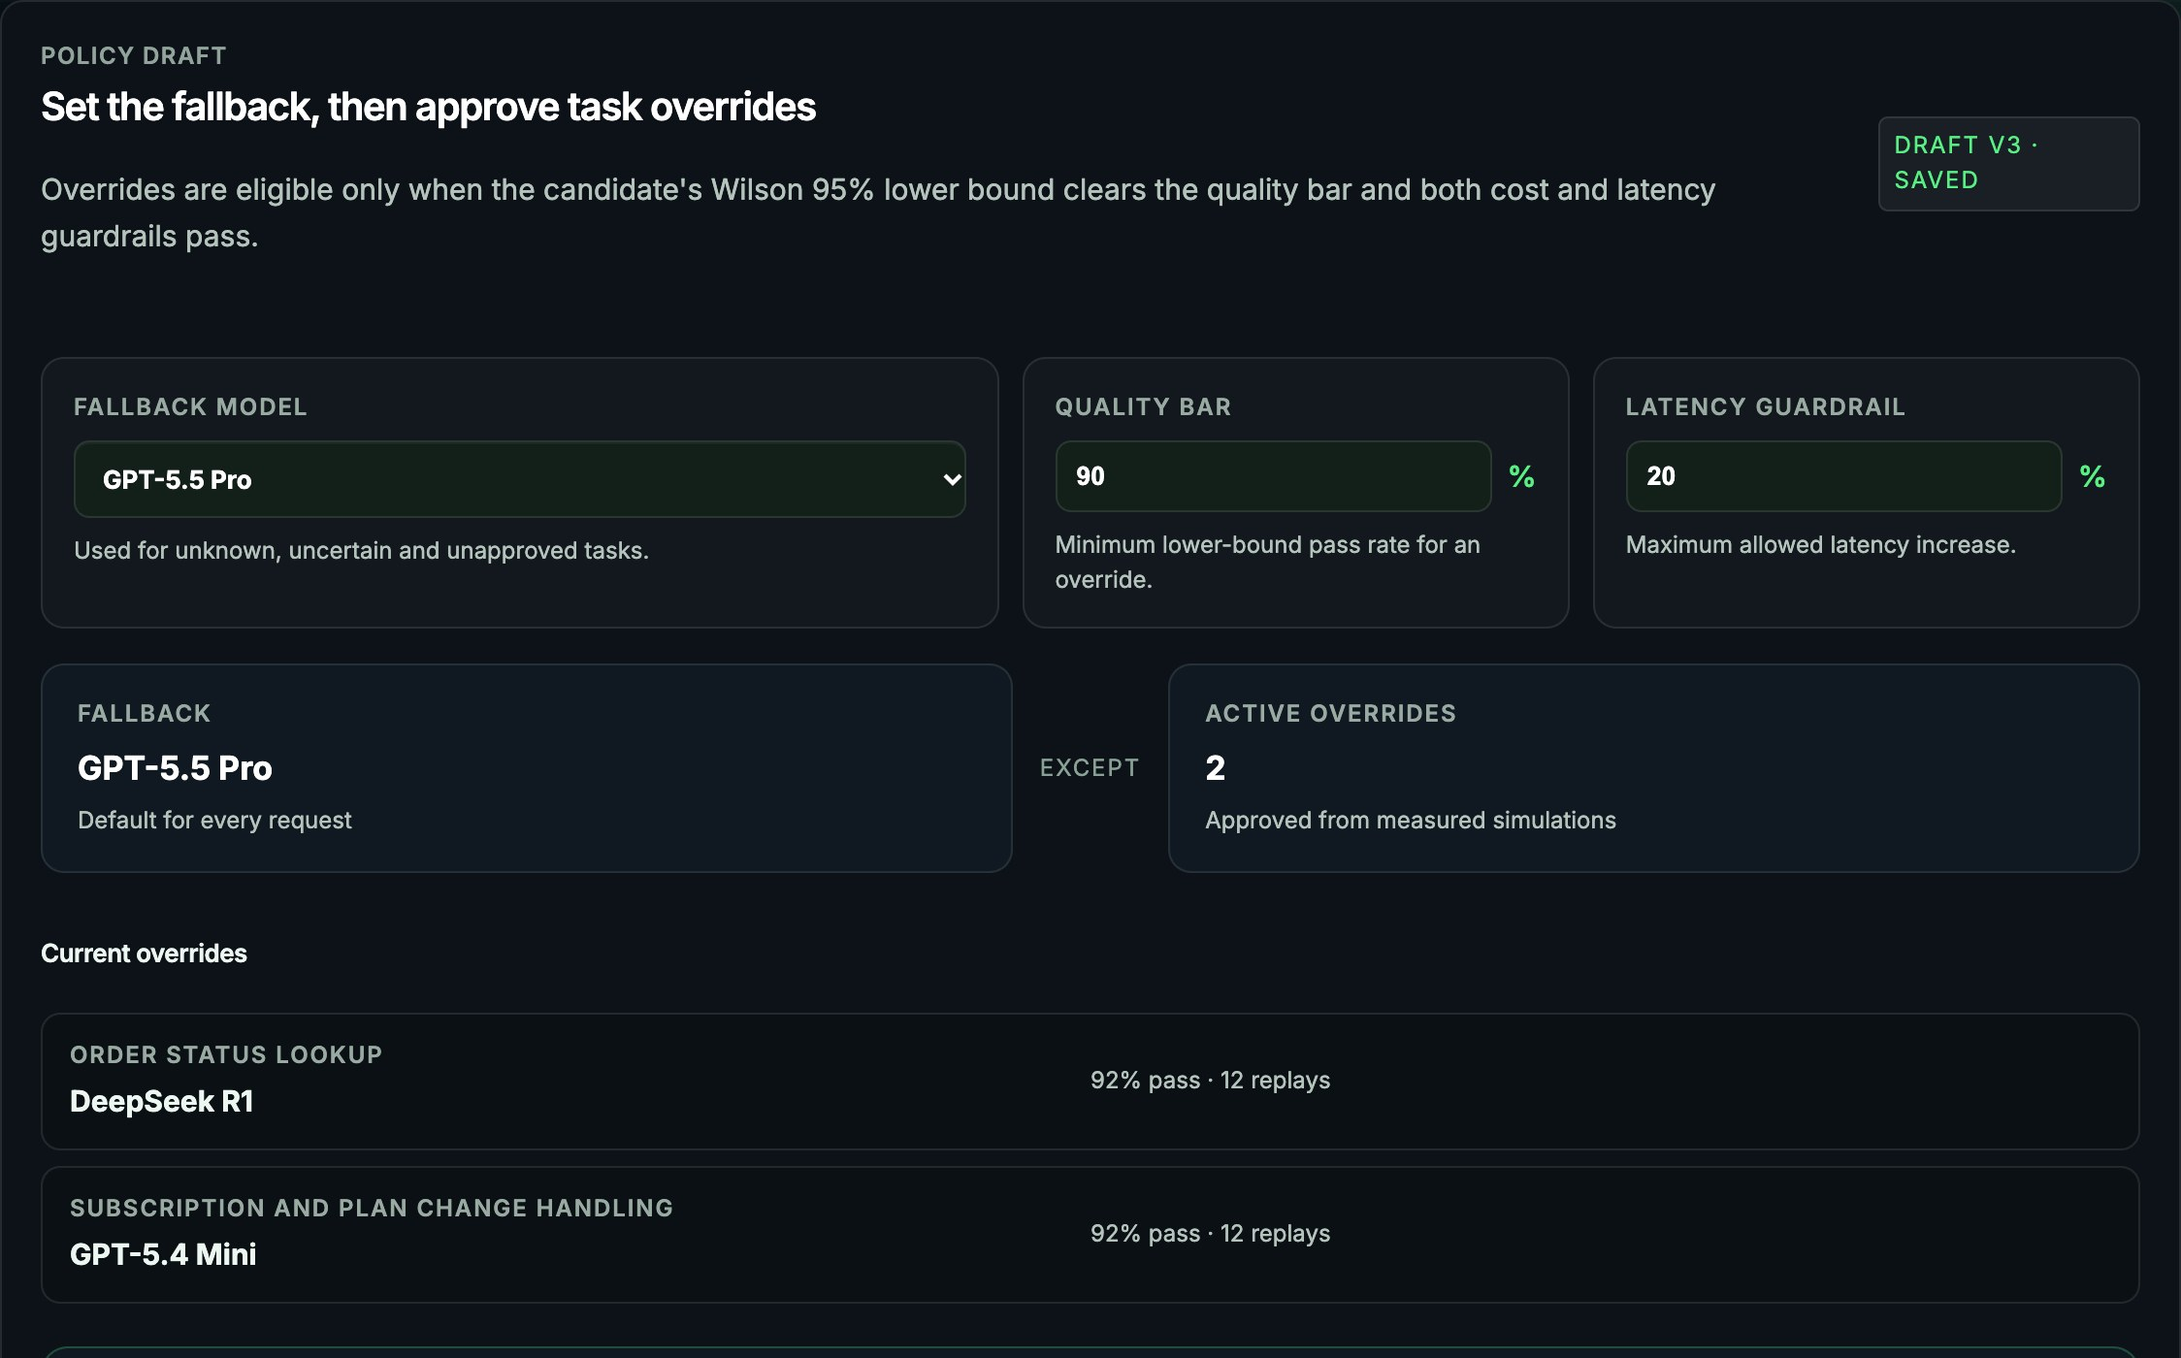
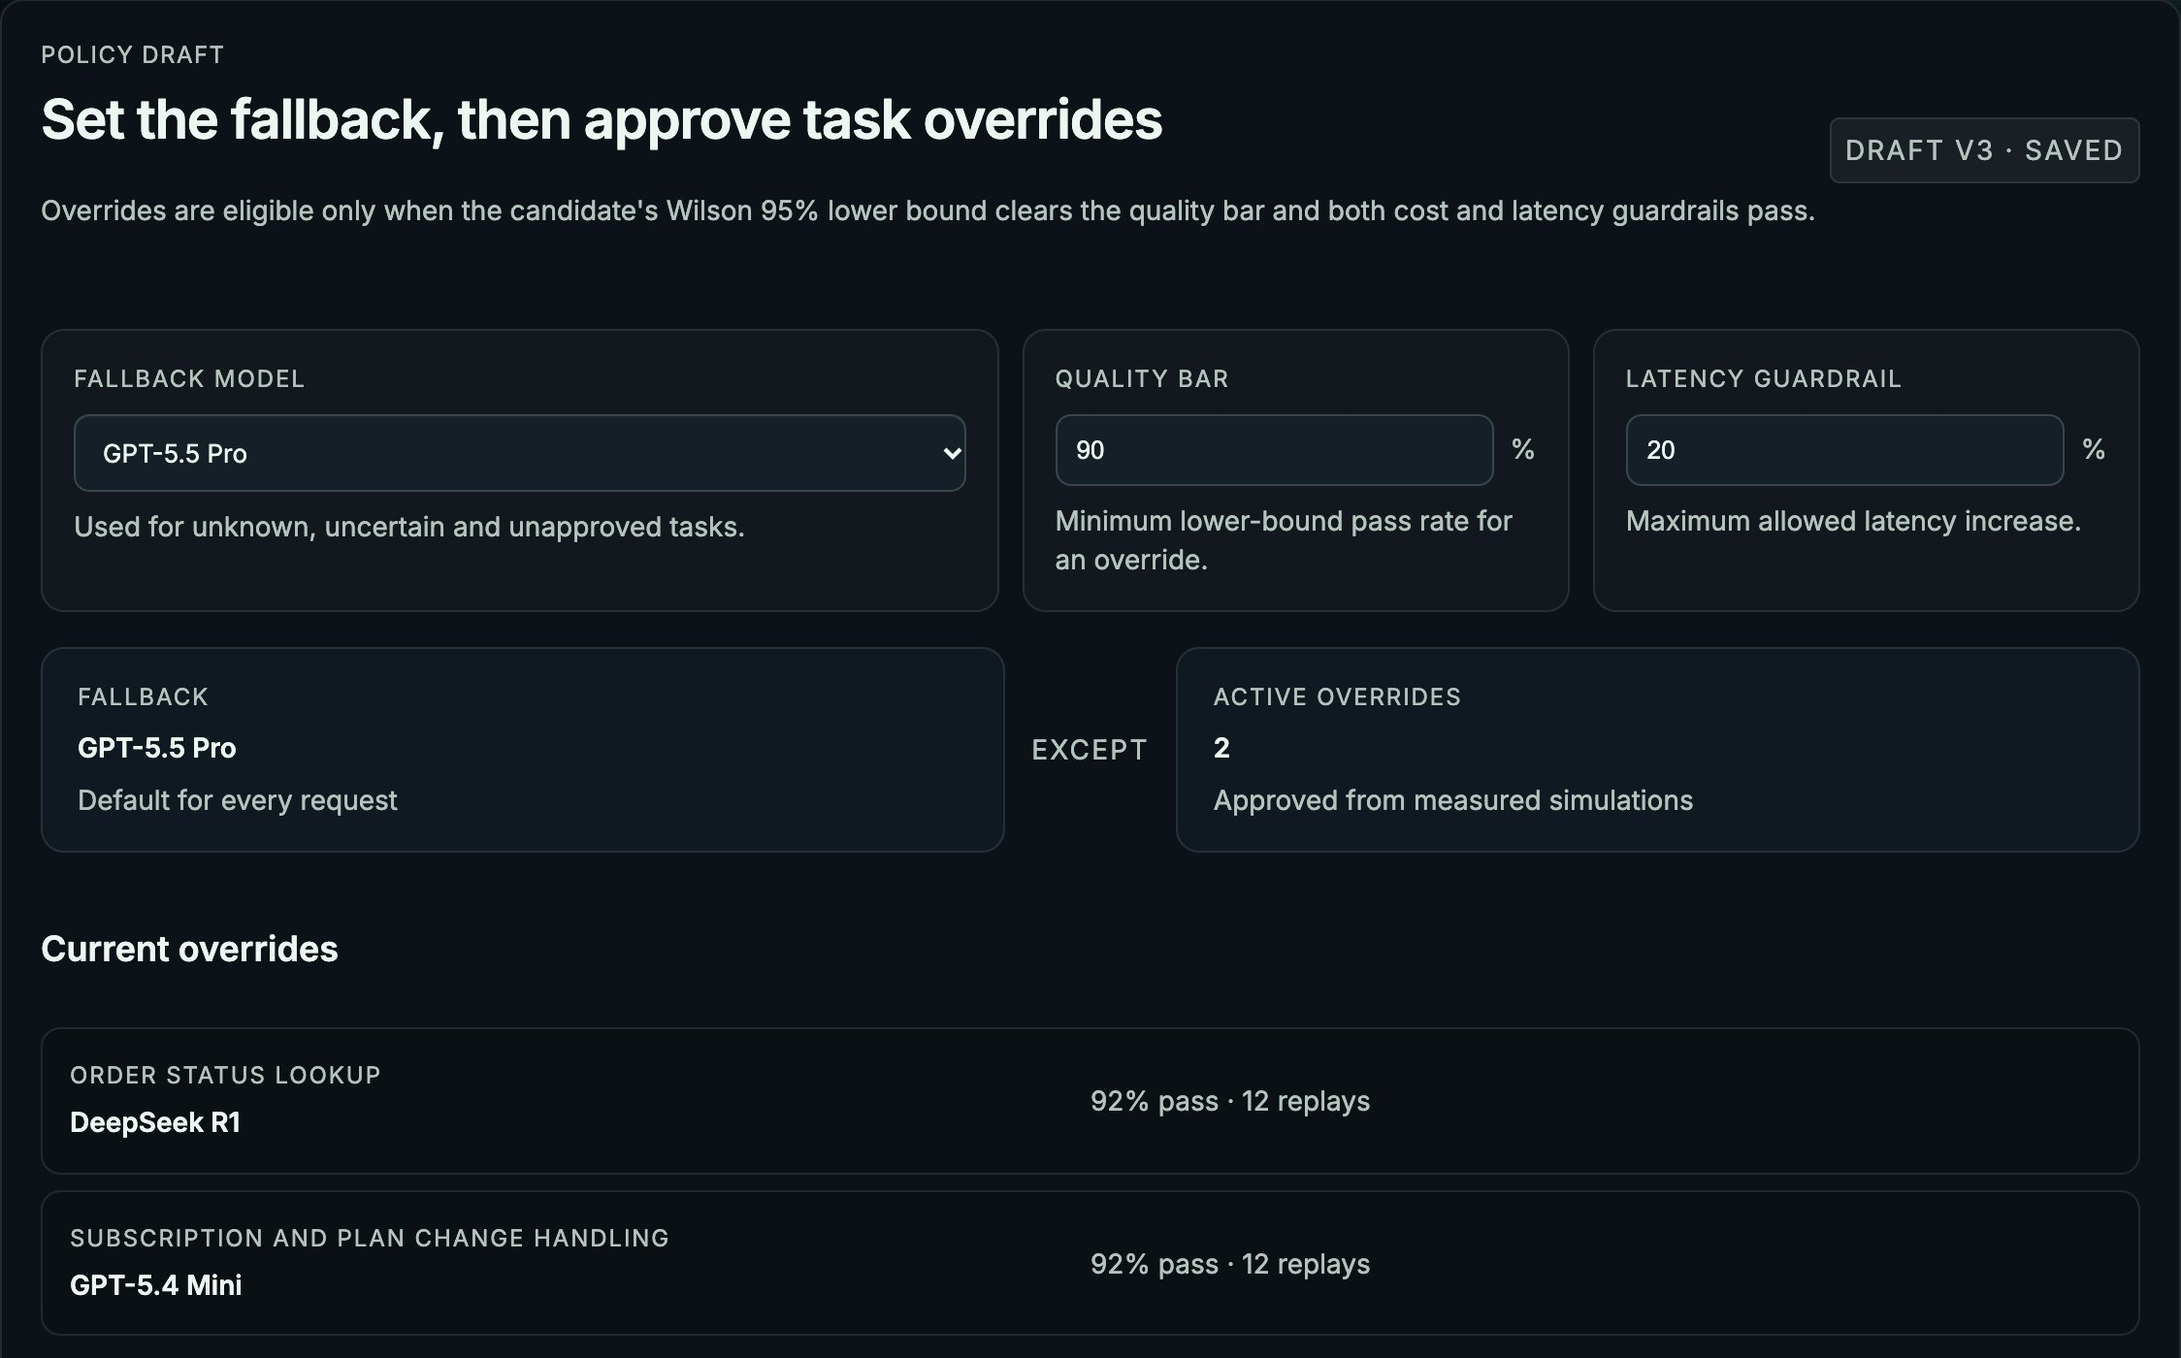
chore: complete design verification

diff --git a/scripts/capture-before.ts b/scripts/capture-before.ts
@@ -1,0 +1,64 @@
+import { chromium, type Page } from "@playwright/test";
+import { mkdir } from "node:fs/promises";
+import path from "node:path";
+
+const baseUrl = process.env.ROUTELAB_BEFORE_URL ?? "http://127.0.0.1:5176";
+const outputDir = path.resolve("audit/screenshots");
+const chrome = process.env.CHROME_PATH ?? "/Applications/Google Chrome.app/Contents/MacOS/Google Chrome";
+const routes = [
+  ["overview", "Overview"],
+  ["traces", "Workloads", "Trace Library"],
+  ["tasks", "Workloads", "Task Signatures"],
+  ["library", "Quality", "Eval Library"],
+  ["calibration", "Quality", "Human Calibration"],
+  ["review-queue", "Quality", "Review Queue"],
+  ["simulate", "Routing Simulations"],
+  ["draft", "Routing Simulations"],
+  ["decisions", "Routes", "Routing Decisions"],
+  ["versions", "Routes", "Routing Decisions"],
+  ["settings", "Settings"],
+  ["benchmarking", "Benchmarking"],
+  ["fine-tuning", "Routes", "Fine-Tuning Opportunities"],
+  ["script-automation", "Routes", "Routing Decisions"],
+] as const;
+
+async function unlock(page: Page) {
+  await page.goto(baseUrl, { waitUntil: "networkidle" });
+  await page.getByRole("button", { name: "Get started" }).first().click();
+  await page.locator('input[type="password"]').fill("Mochinder");
+  await page.getByRole("button", { name: "Unlock RouteLab" }).click();
+  await page.getByRole("heading", { name: "Overview", exact: true }).waitFor();
+}
+
+async function navigate(page: Page, route: readonly string[]) {
+  if (route[1] === "Overview") return;
+  const desktop = await page.locator("aside nav").isVisible();
+  const parent = page.getByRole("button", { name: new RegExp(route[1]) }).last();
+  if (route.length === 2) {
+    await parent.click();
+  } else if (desktop) {
+    if (await parent.getAttribute("aria-expanded") !== "true") await parent.click();
+    await page.locator("aside nav").getByRole("button", { name: route[2], exact: true }).click();
+  } else {
+    await parent.click();
+    await page.locator(".group-mobile-subnav").getByRole("button", { name: route[2], exact: true }).click();
+  }
+  await page.waitForTimeout(120);
+}
+
+await mkdir(outputDir, { recursive: true });
+const browser = await chromium.launch({ headless: true, executablePath: chrome });
+for (const width of [375, 1440]) {
+  const context = await browser.newContext({ viewport: { width, height: width === 375 ? 812 : 900 } });
+  const page = await context.newPage();
+  await page.goto(baseUrl, { waitUntil: "networkidle" });
+  await page.screenshot({ path: path.join(outputDir, `before-landing-${width}.png`), fullPage: true });
+  await unlock(page);
+  for (const route of routes) {
+    await navigate(page, route);
+    await page.screenshot({ path: path.join(outputDir, `before-${route[0]}-${width}.png`), fullPage: true });
+  }
+  await context.close();
+}
+await browser.close();
+console.log("Captured pre-cleanup RouteLab reference screenshots.");

diff --git a/src/pages/Home.tsx b/src/pages/Home.tsx
@@ -34,7 +34,7 @@ export function Home({ onGetStarted }: { onGetStarted: (password: string) => boo
   return <main className="home-page">
     <nav className="home-nav" aria-label="Marketing navigation"><div className="home-brand"><img src="/routelab-icon.svg" alt="" /><b>RouteLab</b></div><button className="home-menu" type="button" aria-expanded={menuOpen} onClick={()=>setMenuOpen((open)=>!open)}>Menu</button><div className={menuOpen ? "open" : ""}><a href="#why-now">Why now</a><a href="#how-it-works">How it works</a><a className="home-primary" href={ASSESSMENT_URL}>Request an assessment</a></div></nav>
 
-    <section className="home-hero"><div className="home-hero-copy"><p className="eyebrow">Model routing policy</p><h1>Every AI task on the cheapest model that passes.</h1><p>RouteLab replays your traces on cheaper models, grades them with evals your reviewers trust, and ships a routing policy your gateway enforces. Anything uncertain stays on your current model.</p><div className="home-cta-row"><a className="home-primary" href={ASSESSMENT_URL}>Request an assessment</a><button className="home-preview-link" type="button" onClick={openPasswordPrompt}>Have a preview password?</button></div><small className="home-cta-note">48 hours. Your traces. No production changes.</small></div><picture className="home-hero-shot"><source srcSet="/marketing/hero-policy.webp" type="image/webp"/><img src="/marketing/policy-enforcement.jpg" alt="RouteLab policy overview showing the fallback model and approved task overrides" /></picture></section>
+    <section className="home-hero"><div className="home-hero-copy"><p className="eyebrow">Model routing policy</p><h1>Every AI task on the cheapest model that passes.</h1><p>RouteLab replays your traces on cheaper models, grades them with evals your reviewers trust, and ships a routing policy your gateway enforces. Anything uncertain stays on your current model.</p><div className="home-cta-row"><a className="home-primary" href={ASSESSMENT_URL}>Request an assessment</a><button className="home-preview-link" type="button" onClick={openPasswordPrompt}>Have a preview password?</button></div><small className="home-cta-note">48 hours. Your traces. No production changes.</small></div><picture className="home-hero-shot"><source srcSet="/marketing/hero-policy.webp" type="image/webp"/><img src="/marketing/hero-policy.jpg" alt="RouteLab policy overview showing the fallback model and approved task overrides" /></picture></section>
 
     <section className="home-problem" id="problem"><div><h2>AI inference is becoming cloud spend 2.0.</h2><p>AI features ship faster than anyone can govern them. The bill grows, and nobody can say why a given model serves a given task.</p></div><div className="home-pain-grid">{pains.map((pain)=><article key={pain.title}><h3>{pain.title}</h3><p>{pain.text}</p></article>)}</div></section>
 

diff --git a/src/styles.css b/src/styles.css
@@ -1710,6 +1710,7 @@ html,body,#root{max-width:100%;overflow-x:clip}
 .shell main h3,.shell main h4{font-size:18px!important;font-weight:600!important;color:var(--text-1)!important;letter-spacing:0!important}
 .shell main b,.shell main strong,.shell main th,.shell main summary{font-weight:600!important;color:var(--text-1)!important}
 .shell main button,.shell main input,.shell main select,.shell main textarea,.shell main td,.shell main th{font-size:13px!important}
+.shell main input,.shell main select,.shell main textarea{background:var(--surface-3)!important;color:var(--text-1)!important;border-color:var(--line-strong)!important}
 .shell main small,.shell main label,.shell main .eyebrow,.shell main dt,.shell main code,.shell main pre{font-size:12px!important}
 .shell main .eyebrow,.shell main dt,.shell main small{color:var(--text-2)!important}
 .shell main .primary,.shell main .primary *{color:var(--on-accent)!important}
@@ -1727,6 +1728,13 @@ html,body,#root{max-width:100%;overflow-x:clip}
 .response-snapshot,.review-facts b,.review-user-feedback span,.review-workflow p{font-family:var(--font-mono)!important}
 .review-code p,.golden-table td{font-family:var(--font-mono)!important}
 .eval-meta-grid>div:first-child b{font-family:var(--font-mono)!important}
+.eval-ready{background:rgba(88,240,132,.12)!important;color:var(--pass)!important;border:1px solid rgba(88,240,132,.26)!important}
+.range-tabs button.active{background:var(--surface-3)!important;color:var(--text-1)!important}
+.rejected-alternative .comparison{background:var(--surface-2)!important;border-color:var(--line)!important}
+.toggle-control,.toggle-control.small{background:var(--surface-2)!important;color:var(--text-2)!important}
+.cluster-card.model.disabled{background:var(--surface)!important}
+.shell>aside *{color:var(--text-2)!important}
+.shell>aside :is(.brand b,button.active){color:var(--text-1)!important}
 @media(max-width:1200px){.fine-tune-recommendation-layout{grid-template-columns:1fr!important}.fine-tune-rec-card,.fine-tune-json-panel{grid-column:1!important}.fine-tune-signature-grid,.prompt-cache-signatures{grid-template-columns:repeat(2,minmax(0,1fr))!important}}
 @media(max-width:960px){.fine-tune-signature-grid,.prompt-cache-signatures{grid-template-columns:1fr!important}.frontier-case-grid{grid-template-columns:1fr!important}.frontier-case-option.centerpiece{grid-column:auto!important}}
 @media(max-width:640px){.rec-card-head,.prompt-cache-head{display:grid!important}.rec-metrics,.rec-evidence-grid,.prompt-cache-grid,.prompt-cache-providers{grid-template-columns:1fr!important}.calibration-metrics{grid-template-columns:1fr!important}.golden-browser{grid-template-columns:1fr!important}}

diff --git a/scripts/audit.ts b/scripts/audit.ts
@@ -43,6 +43,18 @@ async function navigate(page: Page, route: readonly string[]) {
   await page.waitForTimeout(150);
 }
 
+async function loadImages(page: Page) {
+  await page.locator("img").evaluateAll(async (images: HTMLImageElement[]) => {
+    images.forEach((image) => { image.loading = "eager"; });
+    await Promise.all(images.map((image) => image.complete
+      ? Promise.resolve()
+      : new Promise<void>((resolve) => {
+          image.addEventListener("load", () => resolve(), { once: true });
+          image.addEventListener("error", () => resolve(), { once: true });
+        })));
+  });
+}
+
 async function inspect(page: Page, label: string) {
   const result = await page.evaluate(() => {
     const visible = Array.from(document.querySelectorAll<HTMLElement>("body *")).filter((element) => {
@@ -91,6 +103,7 @@ for (const [width, height] of viewports) {
   const context = await browser.newContext({ viewport: { width, height } });
   const page = await context.newPage();
   await page.goto(baseUrl, { waitUntil: "networkidle" });
+  await loadImages(page);
   await inspect(page, `Landing ${width}x${height}`).catch((error) => failures.push(String(error)));
   await page.screenshot({ path: path.join(temporaryDir, `after-landing-${width}.png`), fullPage: true });
   await unlock(page);

diff --git a/scripts/capture-screenshots.ts b/scripts/capture-screenshots.ts
@@ -44,8 +44,9 @@ const browser = await chromium.launch({ headless: true, executablePath: chrome }
 const context = await browser.newContext({ viewport: { width: 1440, height: 900 }, deviceScaleFactor: 2 });
 const page = await context.newPage();
 await unlock(page);
+await page.locator(".overview-decision-summary").getByText("Saved · not published").waitFor();
 
-await capture(page, page.locator(".overview-decision-summary"), "hero-policy");
+await capture(page, page.locator(".overview-routing-state"), "hero-policy");
 await openTopLevel(page, "Traces");
 await capture(page, page.locator(".traces-page > .panel"), "observe");
 await openTopLevel(page, "Tasks");

diff --git a/CHANGES.md b/CHANGES.md
@@ -3,23 +3,28 @@
 ## Codebase map
 
 - Global CSS and tokens: `src/styles.css`; landing-specific rules: `src/styles/home.css`; page-specific rules: `src/styles/*.css`.
-- Marketing landing: `src/pages/Home.tsx`, with navigation, hero, problem, why-now, positioning, steps, assessment, ICP, trust, final CTA and password dialog in one component.
+- Marketing landing: `src/pages/Home.tsx`, with the compressed landing flow, preview-password dialog and trace-handling placeholders.
 - App shell and navigation: `src/App.tsx`; page identity is defined in `src/types/ui.ts`.
-- Product pages: `src/pages/Overview.tsx`, `Traces.tsx`, `DistinctTasks.tsx`, `Evals.tsx`, `GoldenDataset.tsx`, `ReviewQueue.tsx`, `Simulations.tsx`, `Recommendations.tsx`, `ModelCatalog.tsx`, `FrontierModelLab.tsx` and `FineTuning.tsx`.
-- Demo traces and task definitions: `src/core/seed.ts`; exported fixtures: `fixtures/seed_traces.jsonl` and `fixtures/seed_model_catalog.json`.
+- Product pages: `src/pages/Overview.tsx`, `Traces.tsx`, `DistinctTasks.tsx`, `Evals.tsx`, `GoldenDataset.tsx`, `ReviewQueue.tsx`, `Simulations.tsx`, `Recommendations.tsx`, `PolicyDraft.tsx`, `PolicyVersions.tsx`, `Settings.tsx`, `FrontierModelLab.tsx`, `FineTuning.tsx` and `ScriptAutomation.tsx`.
+- Demo traces and task definitions: generated by `scripts/generate-demo-data.ts`; exported fixtures: `fixtures/seed_traces.jsonl` and `fixtures/seed_model_catalog.json`.
 - Golden dataset and calibration: `src/core/goldenDatasets.ts`; judge results: `src/core/traceJudge.ts`; review selection: `src/core/reviewQueue.ts`.
 - Simulation replay: `src/core/simulations.ts`; routing recommendations and exports: `src/core/recommendations.ts`; policy drafts: `src/core/routingDraft.ts` and `src/core/useRoutingPolicyDraft.ts`.
 - Model catalog and pricing: `src/core/catalog.ts` and `src/core/providerPricing.ts`.
-- Existing economics: `src/core/economics.ts`, plus page-local arithmetic in `Overview.tsx`, `Simulations.tsx`, `Recommendations.tsx` and `FineTuning.tsx`.
-- Landing screenshots: `public/marketing/traces.jpg`, `evals.jpg`, `simulations.jpg`, `policy-builder.jpg`, and `policy-enforcement.jpg`; capture entrypoint: `scripts/capture-marketing-screenshots.mjs`.
+- Shared economics and quality: `src/lib/economics.ts` and `src/lib/quality.ts`; formatting and labels: `src/lib/format.ts` and `src/lib/labels.ts`.
+- Landing screenshots: generated by `scripts/capture-screenshots.ts` into `public/marketing/`; visual verification captures are generated into `audit/screenshots/`.
 
 ## Judgment calls
 
 - Keep Benchmarking's Astra, Sol and Opus models and add them to the shared catalog, because those named models are central to the existing interview demo.
-- Treat the uploaded traces as a deterministic representative sample. The generator stores the monthly-call representation explicitly; all monthly economics use that factor instead of a fixed 30-day multiplier.
-- Keep RouteLab's signed-policy work on this branch and reshape it into the requested Policy pages rather than discarding it.
+- Treat the stored traces as a deterministic representative sample. The generator stores monthly-call representation explicitly; all monthly economics use that factor rather than a fixed 30-day multiplier.
+- Keep RouteLab's signed-policy work and reshape it into the requested Policy pages rather than discard it.
 - Keep the DeepSeek sponsored evaluation panel unchanged except for inherited global typography, tokens, formatting and shared economics.
 - Use Inter Variable and DM Mono as local npm assets. No runtime font request is required.
+- Overview economics use every eligible catalog candidate. The sponsored panel remains scoped to its disclosed candidate set.
+- Unit costs below one cent render with sufficient precision to avoid a misleading `$0.000` value.
+- The before screenshots use commit `4379928`, the final pre-cleanup application state. Pages introduced by this redesign map to the closest historical screen for comparison.
+- The computed-style audit is the source of truth for typography and color limits. A final CSS enforcement layer keeps legacy page styles within the shared token system while preserving their layouts.
+- Workstreams 2 through 5 landed in a consolidated feature commit and production-compatibility follow-ups because a previously delegated cloud task advanced the same branch. The published history was not rewritten.
 
 ## TODO(moinak)
 
@@ -31,12 +36,23 @@
 ## Workstream status
 
 - [x] 1. Data and economics
-- [ ] 2. Bugs and layout
-- [ ] 3. Design system
-- [ ] 4. Copy
-- [ ] 5. Information architecture
-- [ ] 6. Verification
+- [x] 2. Bugs and layout
+- [x] 3. Design system
+- [x] 4. Copy
+- [x] 5. Information architecture
+- [x] 6. Verification
+
+## Verification
+
+- `npm test -- --run`: 96 tests passed.
+- `npm run build`: passed, including TypeScript compilation.
+- `npm run audit:ui`: passed on the landing and every app page at 375, 768, 1280 and 1440 pixels.
+- The audit checks horizontal overflow, minimum text size, font-size and color limits, font families, weight limits, forbidden copy, snake case leakage, WCAG AA contrast and duplicate How it works images.
+- `npm run capture:screenshots`: regenerated the seven landing image pairs in JPG and WebP.
+- `npm run capture:before`: captured the pre-cleanup landing and every historical app surface at 375 and 1440 pixels.
+- Before and after captures are saved under `audit/screenshots/`. That directory remains ignored because the PNG evidence set is approximately 68 MB.
 
 ## Incomplete items
 
-- None yet.
+- The repository has no ESLint configuration or lint script. TypeScript compilation, unit tests, grep assertions and the browser audit cover the requested checks instead.
+- Founder-owned URLs, measured marketing proof and trace-handling statements remain explicit `TODO(moinak)` placeholders. No customer result or security claim was invented.
